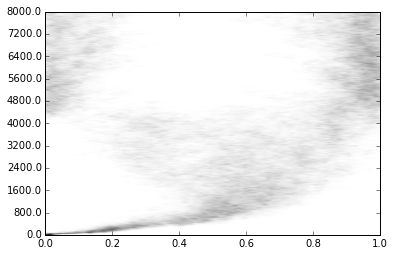
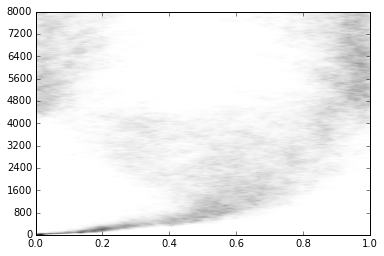
updated ylabel

diff --git a/cooperation_snowdrift.py b/cooperation_snowdrift.py
@@ -32,7 +32,7 @@ def plotEvolve(vals, bins=100, interpolation='bicubic', vmin=None, vmax=None, tm
     plt.imshow(phist, aspect='auto', interpolation=interpolation,
                origin='lower', cmap=plt.cm.binary, extent=(min(xe),max(xe),0,nruns),
                vmin=vmin, vmax=vmax)
-    yticks(around(linspace(0,nruns,11),-1), around(linspace(0,(nruns-1)*tmult+1,11),-1))
+    yticks(around(linspace(0,nruns,11),-1), around(linspace(0,(nruns-1)*tmult+1,11),-1).astype('int'))
     plt.show()
 
 # fix the seed and initialize the random number generator
